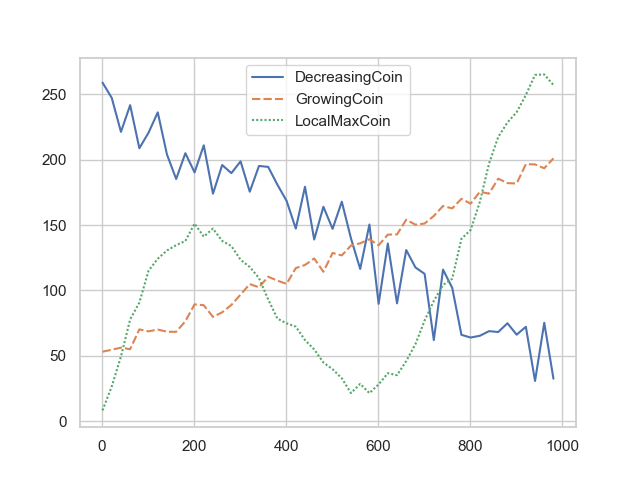
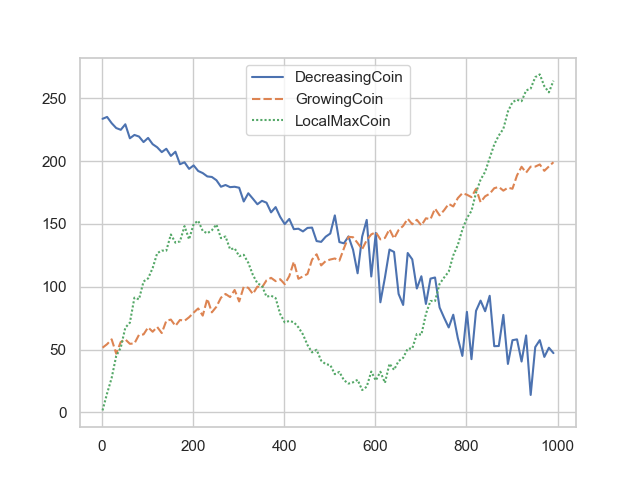
Full featured, almost freeze

diff --git a/CryptoSimulator/agents/trader.py b/CryptoSimulator/agents/trader.py
@@ -34,25 +34,43 @@ class TraderGeneticTemplate(TraderGenericTemplate):
         super().__init__(name, initial_money=initial_money)
         self.population_size = population_size
         self.optimized_attrs = []
+        self.population_funcs = dict()
+        self.mutation_funcs = dict()
 
     @staticmethod
-    def register_param(str,*,my):
+    def register_param(str, *, my):
         setattr(my, str, 0)
         my.optimized_attrs.append(str)
 
     @staticmethod
-    def optimize(gens, *, market,my):
+    def register_generator(str, func, *, my):
+        my.population_funcs[str] = func
+
+    @staticmethod
+    def register_mutator(str, func, *, my):
+        my.mutation_funcs[str] = func
+
+    @staticmethod
+    def optimize(gens, step_div=20, selection_div=5, *, market, my):
         print()
+
         def populatefunc():
             solutions = []
             for _ in range(my.population_size):
-                sol = [random.uniform(0, 1) for _ in my.optimized_attrs]
+                sol = []
+                for param in my.optimized_attrs:
+                    if param in my.population_funcs:
+                        resp = my.population_funcs[param]()
+                        sol.append(resp)
+                    else:
+                        sol.append(random.uniform(0, 1))
                 solutions.append(sol)
             return solutions
 
         def fitness(solution):
+            # run simulation in traders mind
             market.verbose = False
-            chunks = market.end_time // 20
+            chunks = market.end_time // step_div
             for attr, val in zip(my.optimized_attrs, solution):
                 setattr(my, attr, val)
             while market.time < market.end_time:
@@ -66,7 +84,7 @@ class TraderGeneticTemplate(TraderGenericTemplate):
 
         def stopcriteria(gen, solutions):
             if gens == gen:
-                fit,sol = next(iter(solutions))
+                fit, sol = next(iter(solutions))
                 print(f"Optimization completed {fit}")
                 for attr, val in zip(my.optimized_attrs, sol):
                     setattr(my, attr, val)
@@ -75,7 +93,7 @@ class TraderGeneticTemplate(TraderGenericTemplate):
             return None
 
         def selection(solutions):
-            sel = len(solutions) // 5  # 20%
+            sel = len(solutions) // selection_div  # default 5  # 20%
             newsel = list(itertools.islice(solutions, 0, sel))
             return newsel
 
@@ -86,7 +104,6 @@ class TraderGeneticTemplate(TraderGenericTemplate):
                 sol1 = random.choice(solutions)
                 sol2 = random.choice(solutions)
                 half = len(sol1) // 2
-                # cross the roulettes
                 new_sols1 = sol1[:half] + sol2[half:]
                 new_sols2 = sol2[:half] + sol1[half:]
                 new_gen.append(new_sols1)
@@ -96,12 +113,15 @@ class TraderGeneticTemplate(TraderGenericTemplate):
         def mutation(solutions):
             mutated = []
             for sol in solutions:
-                mut = [x + random.uniform(-0.1, 0.1) for x in sol]
-                for i in range(len(mut)):
-                    if mut[i] < 0:
-                        mut[i] = 0
-                    if mut[i] > 1:
-                        mut[i] = 1
+                mut = []
+                for param, val in zip(my.optimized_attrs, sol):
+                    if param in my.mutation_funcs:
+                        resp = my.mutation_funcs[param](val)
+                        mut.append(resp)
+                    else:
+                        resp = val + random.uniform(-0.1, 0.1)
+                        resp = min(max(resp, 0), 1)
+                        mut.append(resp)
                 mutated.append(mut)
             return mutated
 

diff --git a/CryptoSimulator/Simulation.py b/CryptoSimulator/Simulation.py
@@ -19,8 +19,9 @@ class Simulation:
         self.end_time = 1
         self.step_size = 10
         self.verbose = True
+        self.repetitions = 1
 
-    def set_params(self, coins, traders, *, init_time=1, endtime, step_size=10):
+    def set_params(self, coins, traders, *, init_time=1, endtime, step_size=10, repetitions=1):
         self.wallet: list = coins
         self.traders: list = traders
         self.leaved: set = set()
@@ -28,6 +29,7 @@ class Simulation:
         self.time = init_time
         self.end_time = endtime
         self.step_size = step_size
+        self.repetitions = repetitions
 
     @staticmethod
     def _plot(names, values):
@@ -75,7 +77,7 @@ class Simulation:
         return sim
 
     def reset(self):
-        self.time = 1
+        self.time = self.init_time
         self.verbose = True
         self.leaved.clear()
         for coin in self.wallet:
@@ -90,34 +92,43 @@ class Simulation:
             trader.initialize()
         coins_values = []
         traders_values = []
-        while self.time < self.end_time:
-            c_v = []
-            for coin in self.wallet:
-                coin.update_parameters()
-                c_v.append(coin.value)
-            coins_values.append((self.time, c_v))
+        traders_average = [0] * len(traders)
+        for _ in range(self.repetitions):
+            self.reset()
+            coins_values.clear()
+            traders_values.clear()
+            while self.time < self.end_time:
+                c_v = []
+                for coin in self.wallet:
+                    coin.update_parameters()
+                    c_v.append(coin.value)
+                coins_values.append((self.time, c_v))
+                t_v = []
+                for trader in traders:
+                    if trader not in self.leaved:
+                        trader.trade()
+                        t_v.append(trader.money)
+                traders_values.append((self.time, t_v))
+                self.time += self.step_size
             t_v = []
-            for trader in traders:
-                if trader not in self.leaved:
-                    trader.trade()
-                    t_v.append(trader.money)
+            for i, trader in enumerate(traders):
+                try:
+                    leave(my=trader, market=self)
+                except TrowableReturnContainer:
+                    pass
+                traders_average[i] += trader.money
+                t_v.append(trader.money)
             traders_values.append((self.time, t_v))
-            self.time += self.step_size
 
         coins_name = list(map(lambda x: x.name, self.wallet))
         Simulation._plot(coins_name, coins_values)
 
         traders_name = list(map(lambda x: x.name, traders))
         Simulation._plot(traders_name, traders_values)
+        print("\n#### RESULTS ####")
+        for trader,money in zip(traders,traders_average):
+            print(f"{trader.name} : {money/self.repetitions}")
 
-        t_v = []
-        for trader in traders:
-            try:
-                leave(my=trader, market=self)
-            except TrowableReturnContainer:
-                pass
-            t_v.append(trader.money)
-        traders_values.append((self.time, t_v))
         Simulation._view()
 
 

diff --git a/CryptoSimulator/library_built_in/prob_distributions.py b/CryptoSimulator/library_built_in/prob_distributions.py
@@ -1,5 +1,9 @@
+import random
 from math import log
 from random import uniform
+
+import numpy as np
+
 
 # First conf of simulation
 
@@ -25,11 +29,19 @@ def Exponential(l):
     return res
 
 
-def HPoison(l,t):
+def Poison(t, l0, l1=None):
     """
-    Homogene Poison discrete distribution params.. simulated via exponentials as in conf
+    Poison discrete distribution simulated via exponentials as in conf
+    It can be homogeneous if no l1 is supplied or it can be heterogeneos with an uniform in [l0,l1]
     """
-    pass
+    total = 0
+    num = 0
+    while total < t:
+        num += 1
+        l = random.uniform(l0, l1) if l1 is not None else l0
+        r = Exponential(l)
+        total += r
+    return num
 
 
 def Bernoulli(p):
@@ -42,8 +54,23 @@ def Bernoulli(p):
     return res
 
 
-def Normal():
+def Normal(mean_p=0, std_p=1):
     """
-    Normal distribution simulated via acept-rejection
+    Normal distribution simulated via acept-rejection montecarlo algorithm
     """
-    pass
+    density_gen = lambda x, mean, std: (1 / std * np.sqrt(2 * np.pi)) * np.exp((-1 / 2) * ((x - mean) / std) ** 2)
+    density_spec = lambda x: density_gen(x, mean_p, std_p)
+    xmin = mean_p - 5 * std_p
+    xmax = mean_p + 5 * std_p
+    ymax = density_spec(mean_p) + 0.2
+    while True:
+        x = np.random.uniform(low=xmin, high=xmax)
+        y = np.random.uniform(low=0, high=ymax)
+        if y < density_spec(x):
+            return x #, y
+
+
+# import matplotlib.pyplot as plt
+# x, y = map(list, zip(*[Normal() for _ in range(1000)]))
+# plt.scatter(x, y)
+# plt.show()

diff --git a/CryptoSimulator/agents/coin.py b/CryptoSimulator/agents/coin.py
@@ -1,12 +1,8 @@
 class CoinGenericTemplate:
-    def __init__(self, name, *, initial_miners, base_value):
+    def __init__(self, name, *, base_value):
         self.name = name
-        self.miners: int = initial_miners
         self.value: int = base_value
         self.base_value = base_value
-        self.block_size: int = 1
-        self.queue: list = list()
-        self.transactions: set = set()
 
     def __gt__(self, other):
         if not isinstance(other, CoinGenericTemplate):
@@ -36,12 +32,6 @@ class CoinGenericTemplate:
     def __repr__(self):
         res = f"{self.name} value {self.value}"
         return res
-
-    def validate(self):
-        '''
-        Como el poder de computo es la suma de todos los mineros es analogo decir que cada minero valide una transacion
-        '''
-        pass
 
     def update_parameters(self):
         pass
